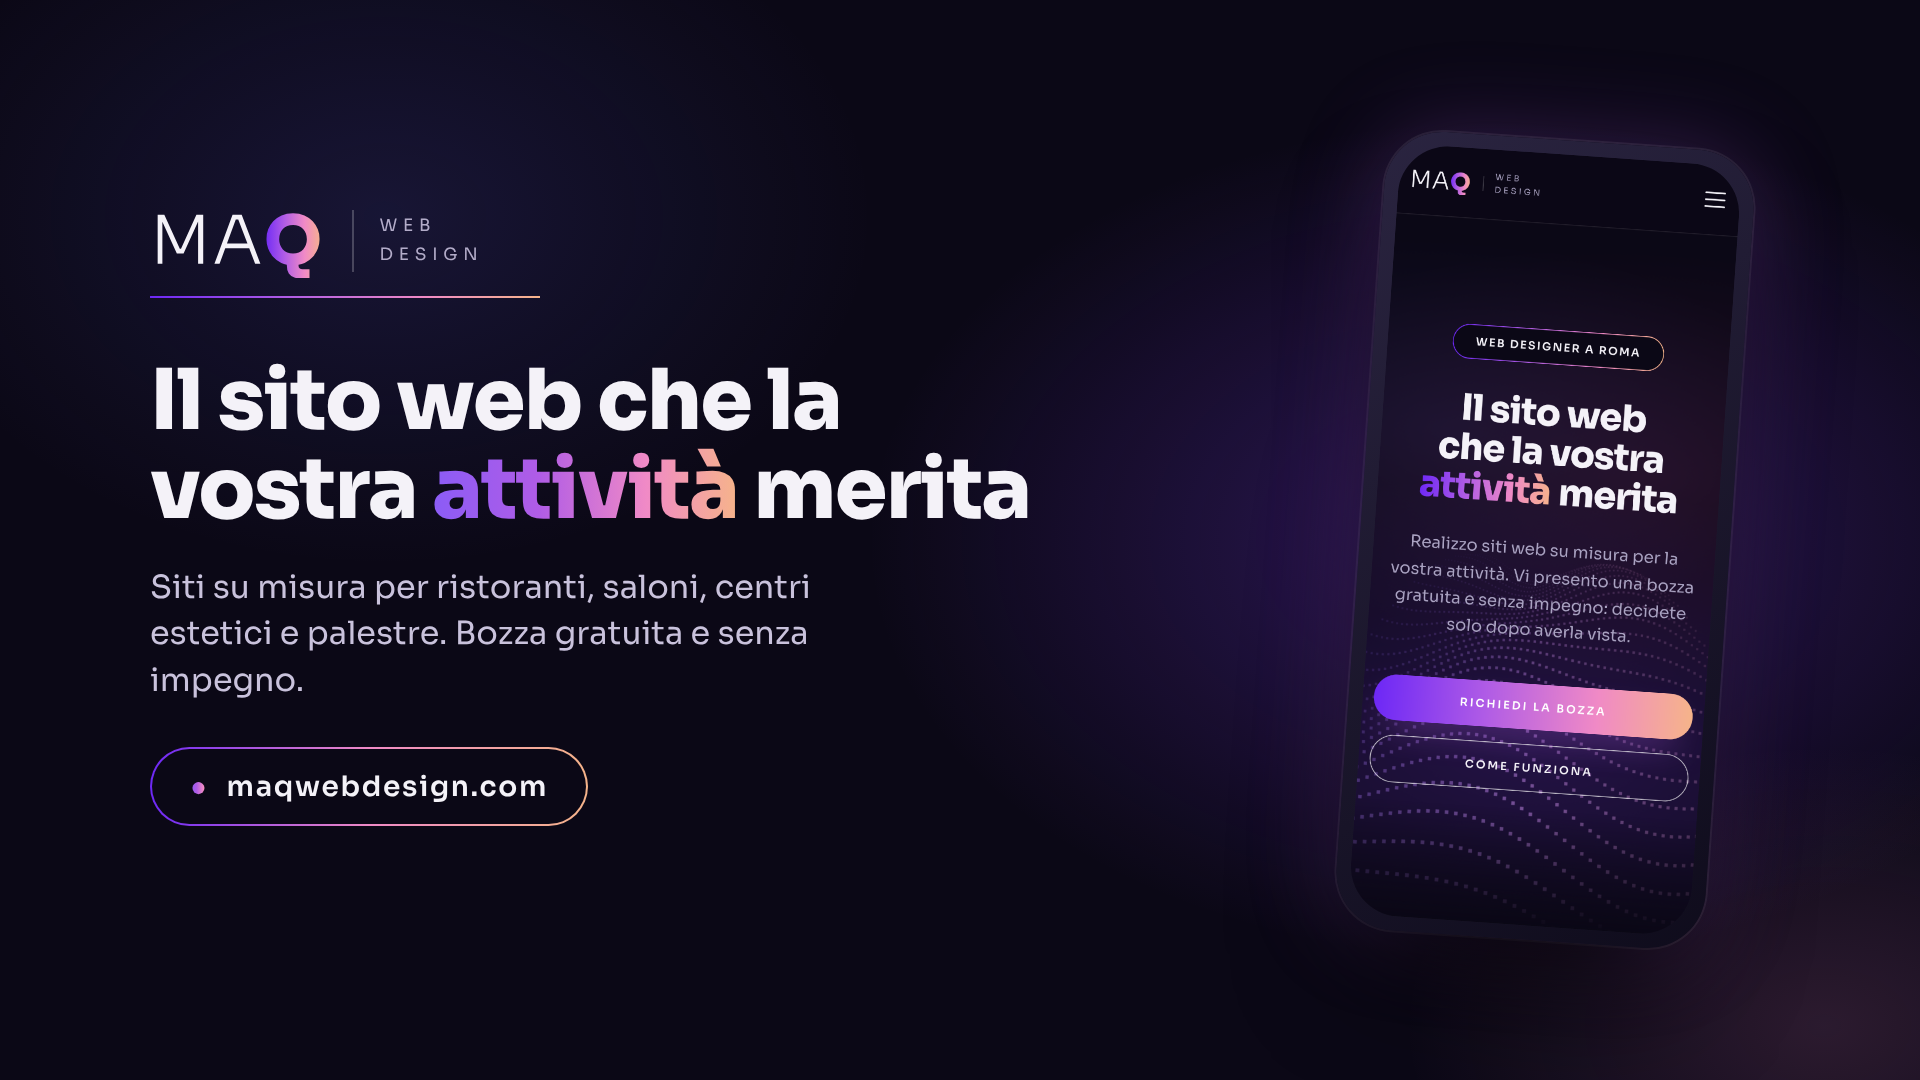
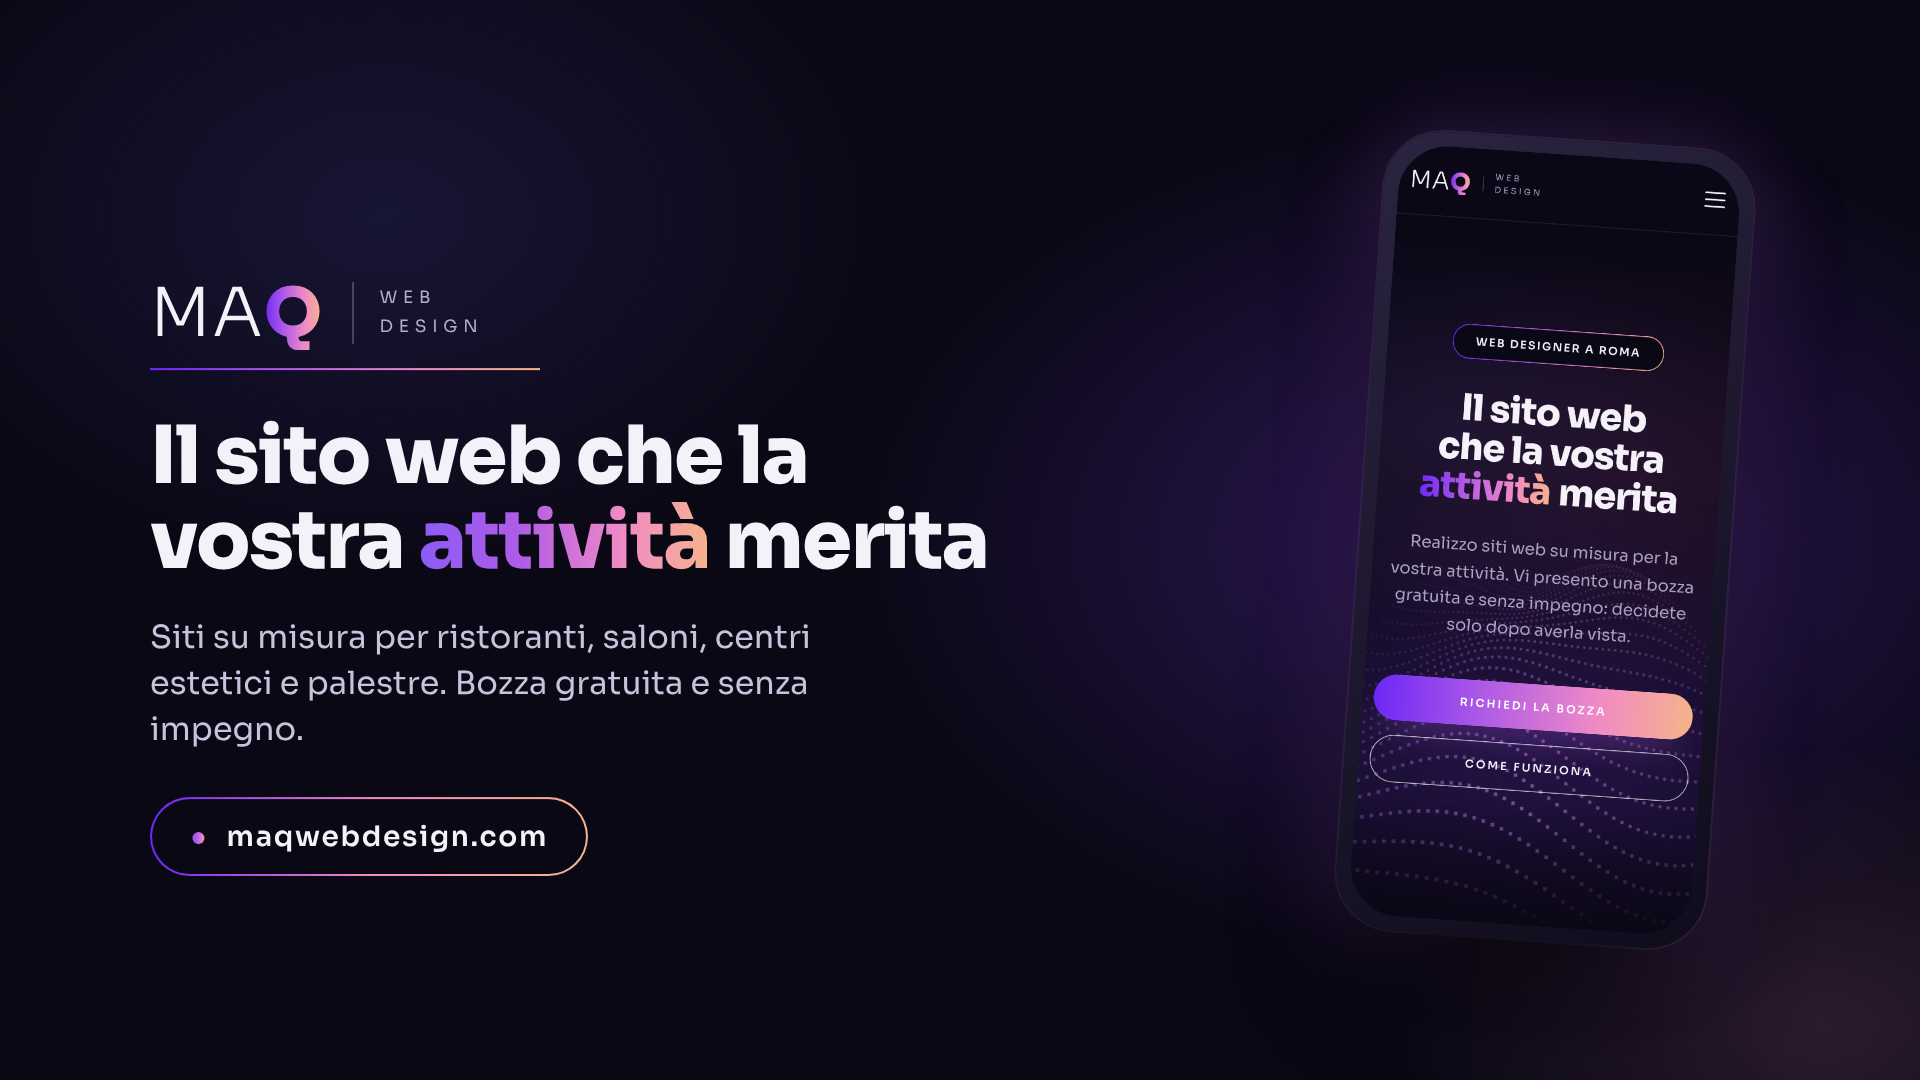
WhatsApp: copertina con il sito, testo dentro il ritaglio
Claude-Session: https://claude.ai/code/session_01U1jjcUAqENdpgzt23dCL9u

Changed region(s): [[0.0625, 0.1833, 0.5312, 0.7944], [0.2188, 0.2139, 0.25, 0.2444]]

diff --git a/whatsapp/copertina-sito.html b/whatsapp/copertina-sito.html
@@ -6,13 +6,13 @@
 *{margin:0;padding:0;box-sizing:border-box}
 body{width:1920px;height:1080px;overflow:hidden;font-family:Sora;color:#f4f2f8;position:relative;
 background:radial-gradient(900px 600px at 78% 50%,rgba(124,58,237,.30),transparent 70%),radial-gradient(700px 500px at 20% 20%,rgba(99,102,241,.14),transparent 70%),radial-gradient(600px 400px at 95% 95%,rgba(240,138,198,.14),transparent 70%),#0b0816}
-.sx{position:absolute;left:150px;top:50%;transform:translateY(-54%);width:900px}
+.sx{position:absolute;left:150px;top:50%;transform:translateY(-44%);width:900px}
 .logo{display:flex;align-items:center;gap:26px}
 .logo svg{height:74px;width:auto}
 .vl{width:1.5px;height:62px;background:rgba(255,255,255,.22)}
 .wd{font-size:17px;letter-spacing:.34em;line-height:1.7;color:#b3acc9}
 .barra{width:390px;height:2px;margin-top:18px;background:linear-gradient(90deg,#6d28f6,#b05ce6 35%,#f08ac6 70%,#f6b48a)}
-h1{margin-top:58px;font-size:84px;line-height:1.06;font-weight:800;letter-spacing:-.02em}
+h1{margin-top:44px;font-size:80px;line-height:1.06;font-weight:800;letter-spacing:-.02em}
 .sf{background:linear-gradient(90deg,#8b5cf6,#b05ce6 35%,#f08ac6 70%,#f6b48a);-webkit-background-clip:text;background-clip:text;color:transparent}
 p.sub{margin-top:30px;font-size:32px;line-height:1.45;color:#c9c2dc;max-width:760px}
 .pill{margin-top:44px;display:inline-flex;align-items:center;gap:18px;padding:20px 38px;border-radius:999px;font-size:28px;font-weight:600;letter-spacing:.06em;
